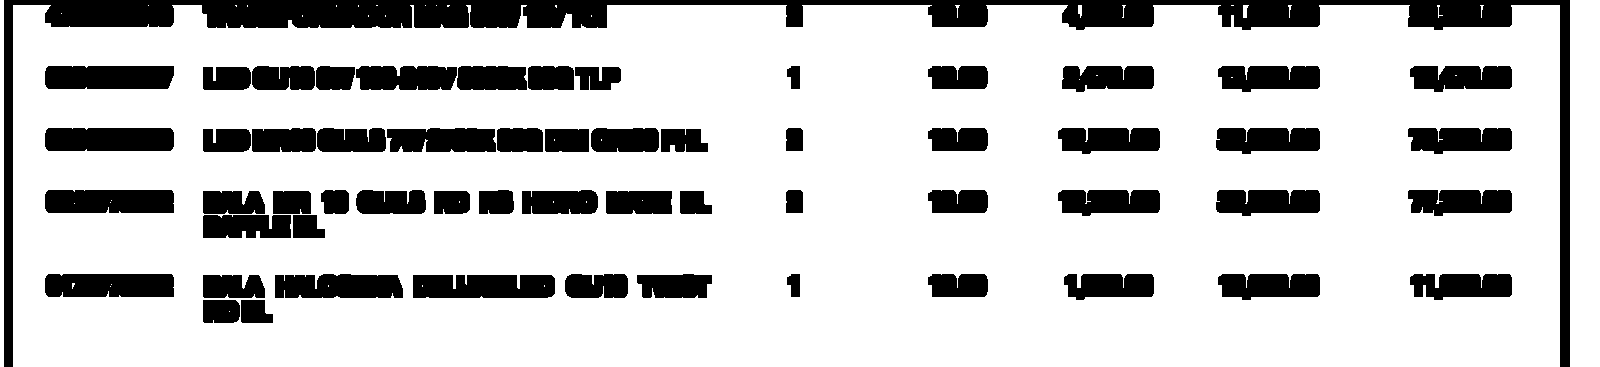
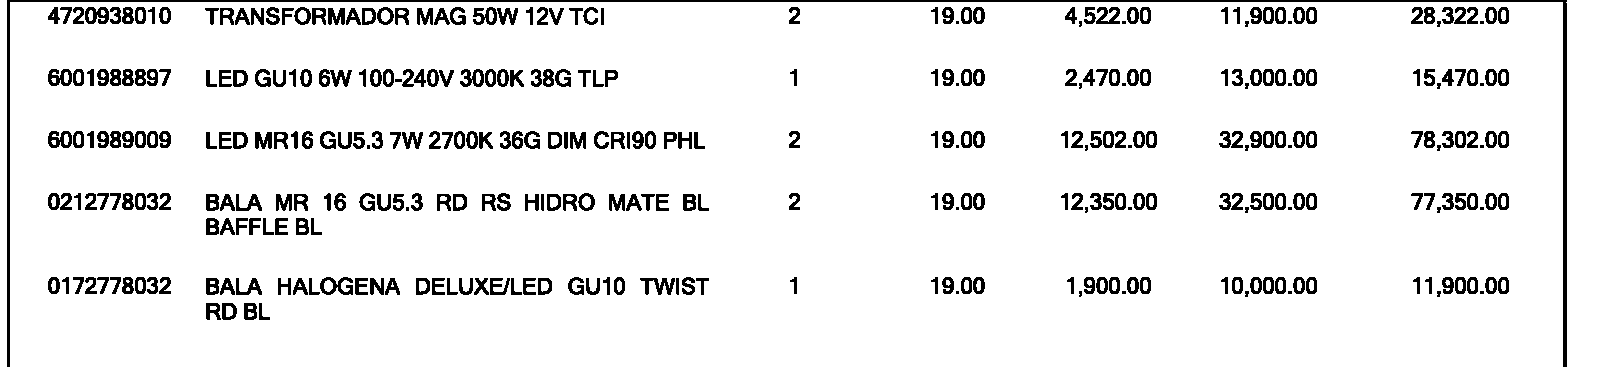
vision

diff --git a/vision/ejemplo2/eje22.py b/vision/ejemplo2/eje22.py
@@ -1,0 +1,104 @@
+import os
+import cv2
+
+def mostrar(image):
+    # Using cv2.imshow() method 
+    # Displaying the image 
+    cv2.imshow('image', image)
+    
+    #waits for user to press any key 
+    #(this is necessary to avoid Python kernel form crashing)
+    cv2.waitKey(0) 
+    
+    #closing all open windows 
+    cv2.destroyAllWindows() 
+
+in_file = os.path.join("data", "test3.png")
+
+#%%
+
+img = cv2.imread(os.path.join(in_file))
+img = img[760:1150, 60:1660]
+
+# mostrar(img)
+img = cv2.cvtColor(img, cv2.COLOR_BGR2GRAY)
+# mostrar(img)
+img = cv2.GaussianBlur(img, (3, 3), 0)
+# mostrar(img)
+img = cv2.threshold(img, 250, 255, cv2.THRESH_BINARY | cv2.THRESH_OTSU)[1]
+# mostrar(img)
+img1 = cv2.bitwise_not(img)
+struct = cv2.getStructuringElement(cv2.MORPH_RECT, (2, 2))
+img1 = cv2.erode(img1, struct, iterations=1)
+img1 = cv2.dilate(img1, struct, anchor=(-1, -1), iterations=6)
+# mostrar(img1)
+contours, hierarchy = cv2.findContours(img1, cv2.RETR_LIST, cv2.CHAIN_APPROX_SIMPLE)
+boxes = []
+for contour in contours:
+    box = cv2.boundingRect(contour)
+    h = box[3]
+
+    if 12 < h < 40:
+        boxes.append(box)
+
+for box in boxes:
+    (x, y, w, h) = box
+    cv2.rectangle(img, (x, y), (x + w - 2, y + h - 2), (0, 0, 0), 1)
+
+# mostrar(img)
+rows = {}
+cols = {}
+for box in boxes:
+    (x, y, w, h) = box
+    col_key = x // 10
+    row_key = y // 10
+    cols[row_key] = [box] if col_key not in cols else cols[col_key] + [box]
+    rows[row_key] = [box] if row_key not in rows else rows[row_key] + [box]
+
+table_cells = list(filter(lambda r: len(r) >= 2, rows.values()))
+table_cells = [list(sorted(tb)) for tb in table_cells]
+table_cells = list(sorted(table_cells, key=lambda r: r[0][1]))
+
+max_last_col_width_row = max(table_cells, key=lambda b: b[-1][2])
+max_x = max_last_col_width_row[-1][0] + max_last_col_width_row[-1][2]
+max_last_row_height_box = max(table_cells[-1], key=lambda b: b[3])
+max_y = max_last_row_height_box[1] + max_last_row_height_box[3]
+
+ver_lines = []
+for box in table_cells[0]:
+    x = box[0]
+    y = box[1]
+    ver_lines.append((x, y, x, max_y))
+
+(x, y, w, h) = table_cells[0][-1]
+ver_lines.append((max_x, y, max_x, max_y))
+
+for line in ver_lines:
+    [x1, y1, x2, y2] = line
+    cv2.line(img, (x1, y1), (x2, y2), (0, 255, 0), 1)
+mostrar(img)
+
+# %%
+
+mostrar(img)
+
+# %%
+hcol = []
+htemp = []
+for x, y in enumerate(table_cells[0]):
+    try:
+        (x1, y1, w1, h1) = htemp[-1]
+        (x2, y2, w2, h2) = y
+    except:
+        pass
+
+    if x == 0 :
+        hcol.append(y)
+    elif (x2 - (x1 + w1)) > 29:
+        hcol.append(y)
+    else:
+        pass
+    htemp.append(y)
+            
+hcol
+# %%

diff --git a/vision/ejemplo2/eje21.py b/vision/ejemplo2/eje21.py
@@ -1,14 +1,17 @@
 #%%
 import os
 import cv2
+import matplotlib.pyplot as plt
+import numpy as np
+import pytesseract
 
 # This only works if there's only one table on a page
 # Important parameters:
-MORPH_SIZE = (8, 8) #(8, 8)
+MORPH_SIZE = (2, 2) #(8, 8)
 MIN_TEXT_HEIGHT_LIMIT = 6 #6
 MAX_TEXT_HEIGHT_LIMIT = 40 #40
-CELL_THRESHOLD = 10 #10
-MIN_COLUMNS = 7 #2
+CELL_THRESHOLD = 19 #10
+MIN_COLUMNS = 2 #2
 
 def pre_process_image(img, save_in_file, morph_size=MORPH_SIZE):
 
